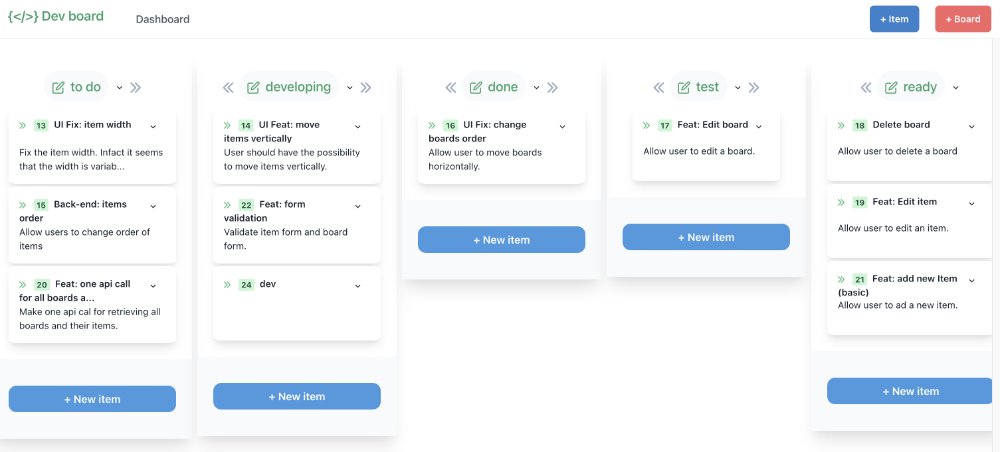
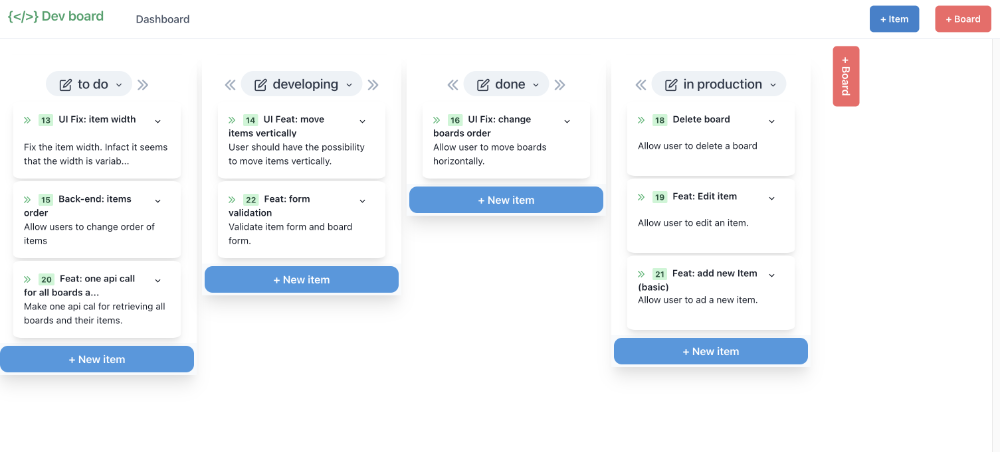
feat: ui improvements

diff --git a/src/components/Board.tsx b/src/components/Board.tsx
@@ -18,6 +18,7 @@ import {
   MenuList,
   MenuItem,
   HStack,
+  Flex,
 } from '@chakra-ui/react';
 import { Link } from 'react-router-dom';
 import GenericService from '../service/GenerciService';
@@ -54,10 +55,11 @@ export default function Board(props: StatsCardProps) {
 
   return (
     <Center py={6}>
-      <Box w={'300px'} bg={'white.100'} boxShadow={'xl'} rounded={'md'}>
+      <Box w={'300px'} bg={'white'} boxShadow={'xl'} rounded={'md'}>
         <Stack
           textAlign={'center'}
           p={6}
+          pb={2}
           color={useColorModeValue('gray.800', 'white')}
           align={'center'}
         >
@@ -71,40 +73,41 @@ export default function Board(props: StatsCardProps) {
                 />
               </Box>
             )}
-            <Text
-              fontSize={'xl'}
-              fontWeight={500}
-              bg={useColorModeValue('gray.50', 'gray.900')}
-              p={2}
-              px={3}
-              color={'green.500'}
-              rounded={'full'}
-              w={'full'}
-            >
-              <Icon as={EditIcon} mr={2} />
-              {props.title}{' '}
-            </Text>
-            <Menu>
-              {() => (
-                <>
-                  <MenuButton>
-                    <Icon as={ChevronDownIcon} />
-                  </MenuButton>
-                  <MenuList>
-                    <MenuItem onClick={() => props.goToEdit(props.id || -1)}>
-                      Edit
-                    </MenuItem>
-                    <MenuItem
-                      onClick={() => {
-                        props.deleteColumn(props.id || -1);
-                      }}
-                    >
-                      Delete
-                    </MenuItem>
-                  </MenuList>
-                </>
-              )}
-            </Menu>
+            <Flex bg={'gray.100'} rounded={'full'} py={1} px={3}>
+              <Text
+                fontSize={'xl'}
+                fontWeight={500}
+                color={'gray.700'}
+                rounded={'full'}
+                px={2}
+                w={'full'}
+              >
+                <Icon as={EditIcon} mr={2} />
+                {props.title}{' '}
+              </Text>
+              <Menu>
+                {() => (
+                  <>
+                    <MenuButton>
+                      <Icon color={'gray.700'} as={ChevronDownIcon} />
+                    </MenuButton>
+                    <MenuList>
+                      <MenuItem onClick={() => props.goToEdit(props.id || -1)}>
+                        Edit
+                      </MenuItem>
+                      <MenuItem
+                        onClick={() => {
+                          props.deleteColumn(props.id || -1);
+                        }}
+                      >
+                        Delete
+                      </MenuItem>
+                    </MenuList>
+                  </>
+                )}
+              </Menu>
+            </Flex>
+
             {props._showRightArrow && (
               <Box as="button" onClick={() => props.moveRight(props.id)}>
                 <Icon

diff --git a/src/components/NavBar.tsx b/src/components/NavBar.tsx
@@ -54,16 +54,17 @@ export default function NavBar() {
           />
         </Flex>
         <Flex flex={{ base: 1 }} justify={{ base: 'center', md: 'start' }}>
-          <Text
-            textAlign={useBreakpointValue({ base: 'center', md: 'left' })}
-            fontFamily={'heading'}
-            fontWeight={600}
-            fontSize={'xl'}
-            color={useColorModeValue('green.500', 'black')}
-          >
-            {'{</>} Dev board'}
-          </Text>
-
+          <ReactLink to="/">
+            <Text
+              textAlign={useBreakpointValue({ base: 'center', md: 'left' })}
+              fontFamily={'heading'}
+              fontWeight={600}
+              fontSize={'xl'}
+              color={useColorModeValue('green.500', 'black')}
+            >
+              {'{</>} Dev board'}
+            </Text>
+          </ReactLink>
           <Flex display={{ base: 'none', md: 'flex' }} ml={10}>
             <DesktopNav />
           </Flex>
